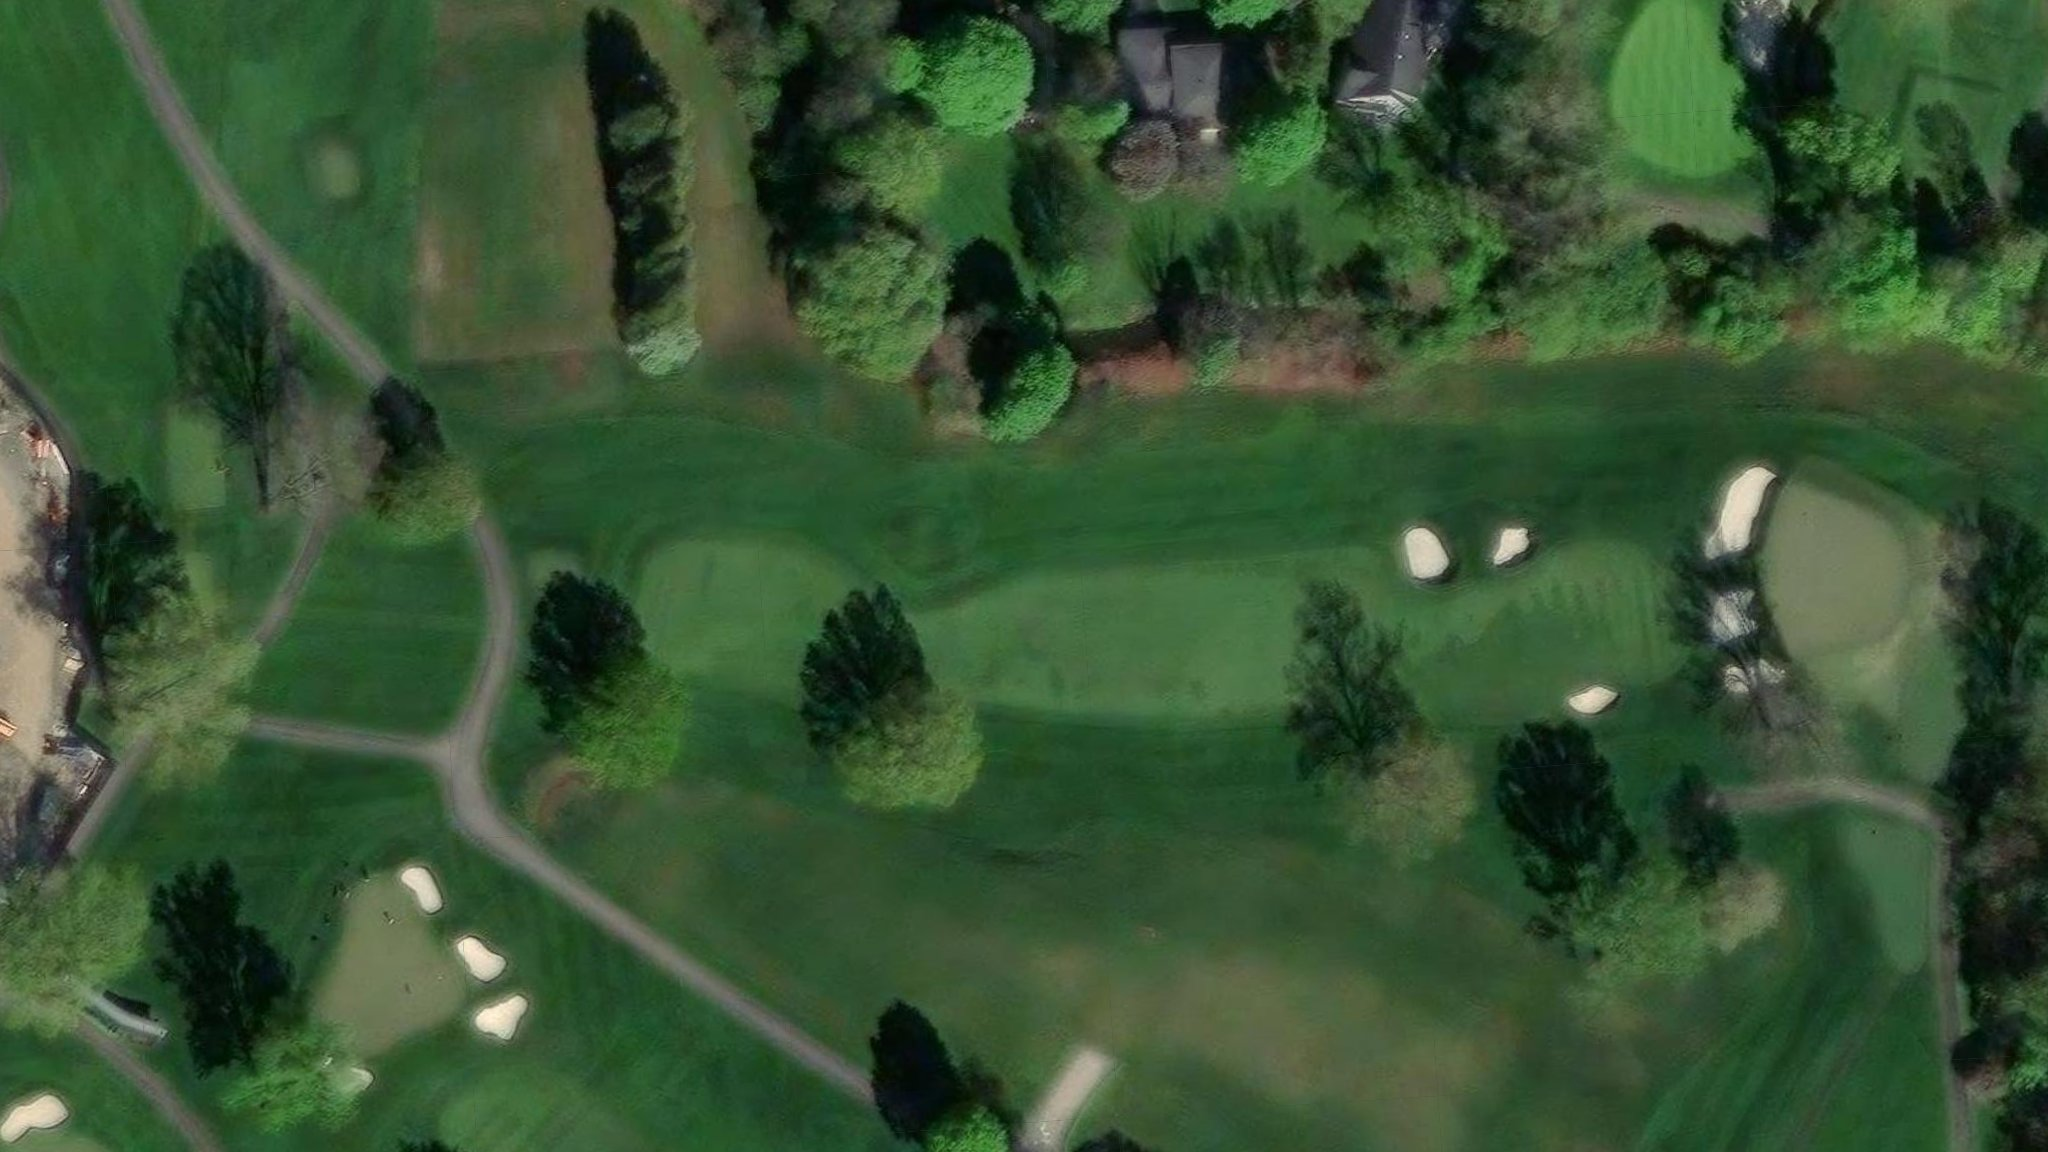
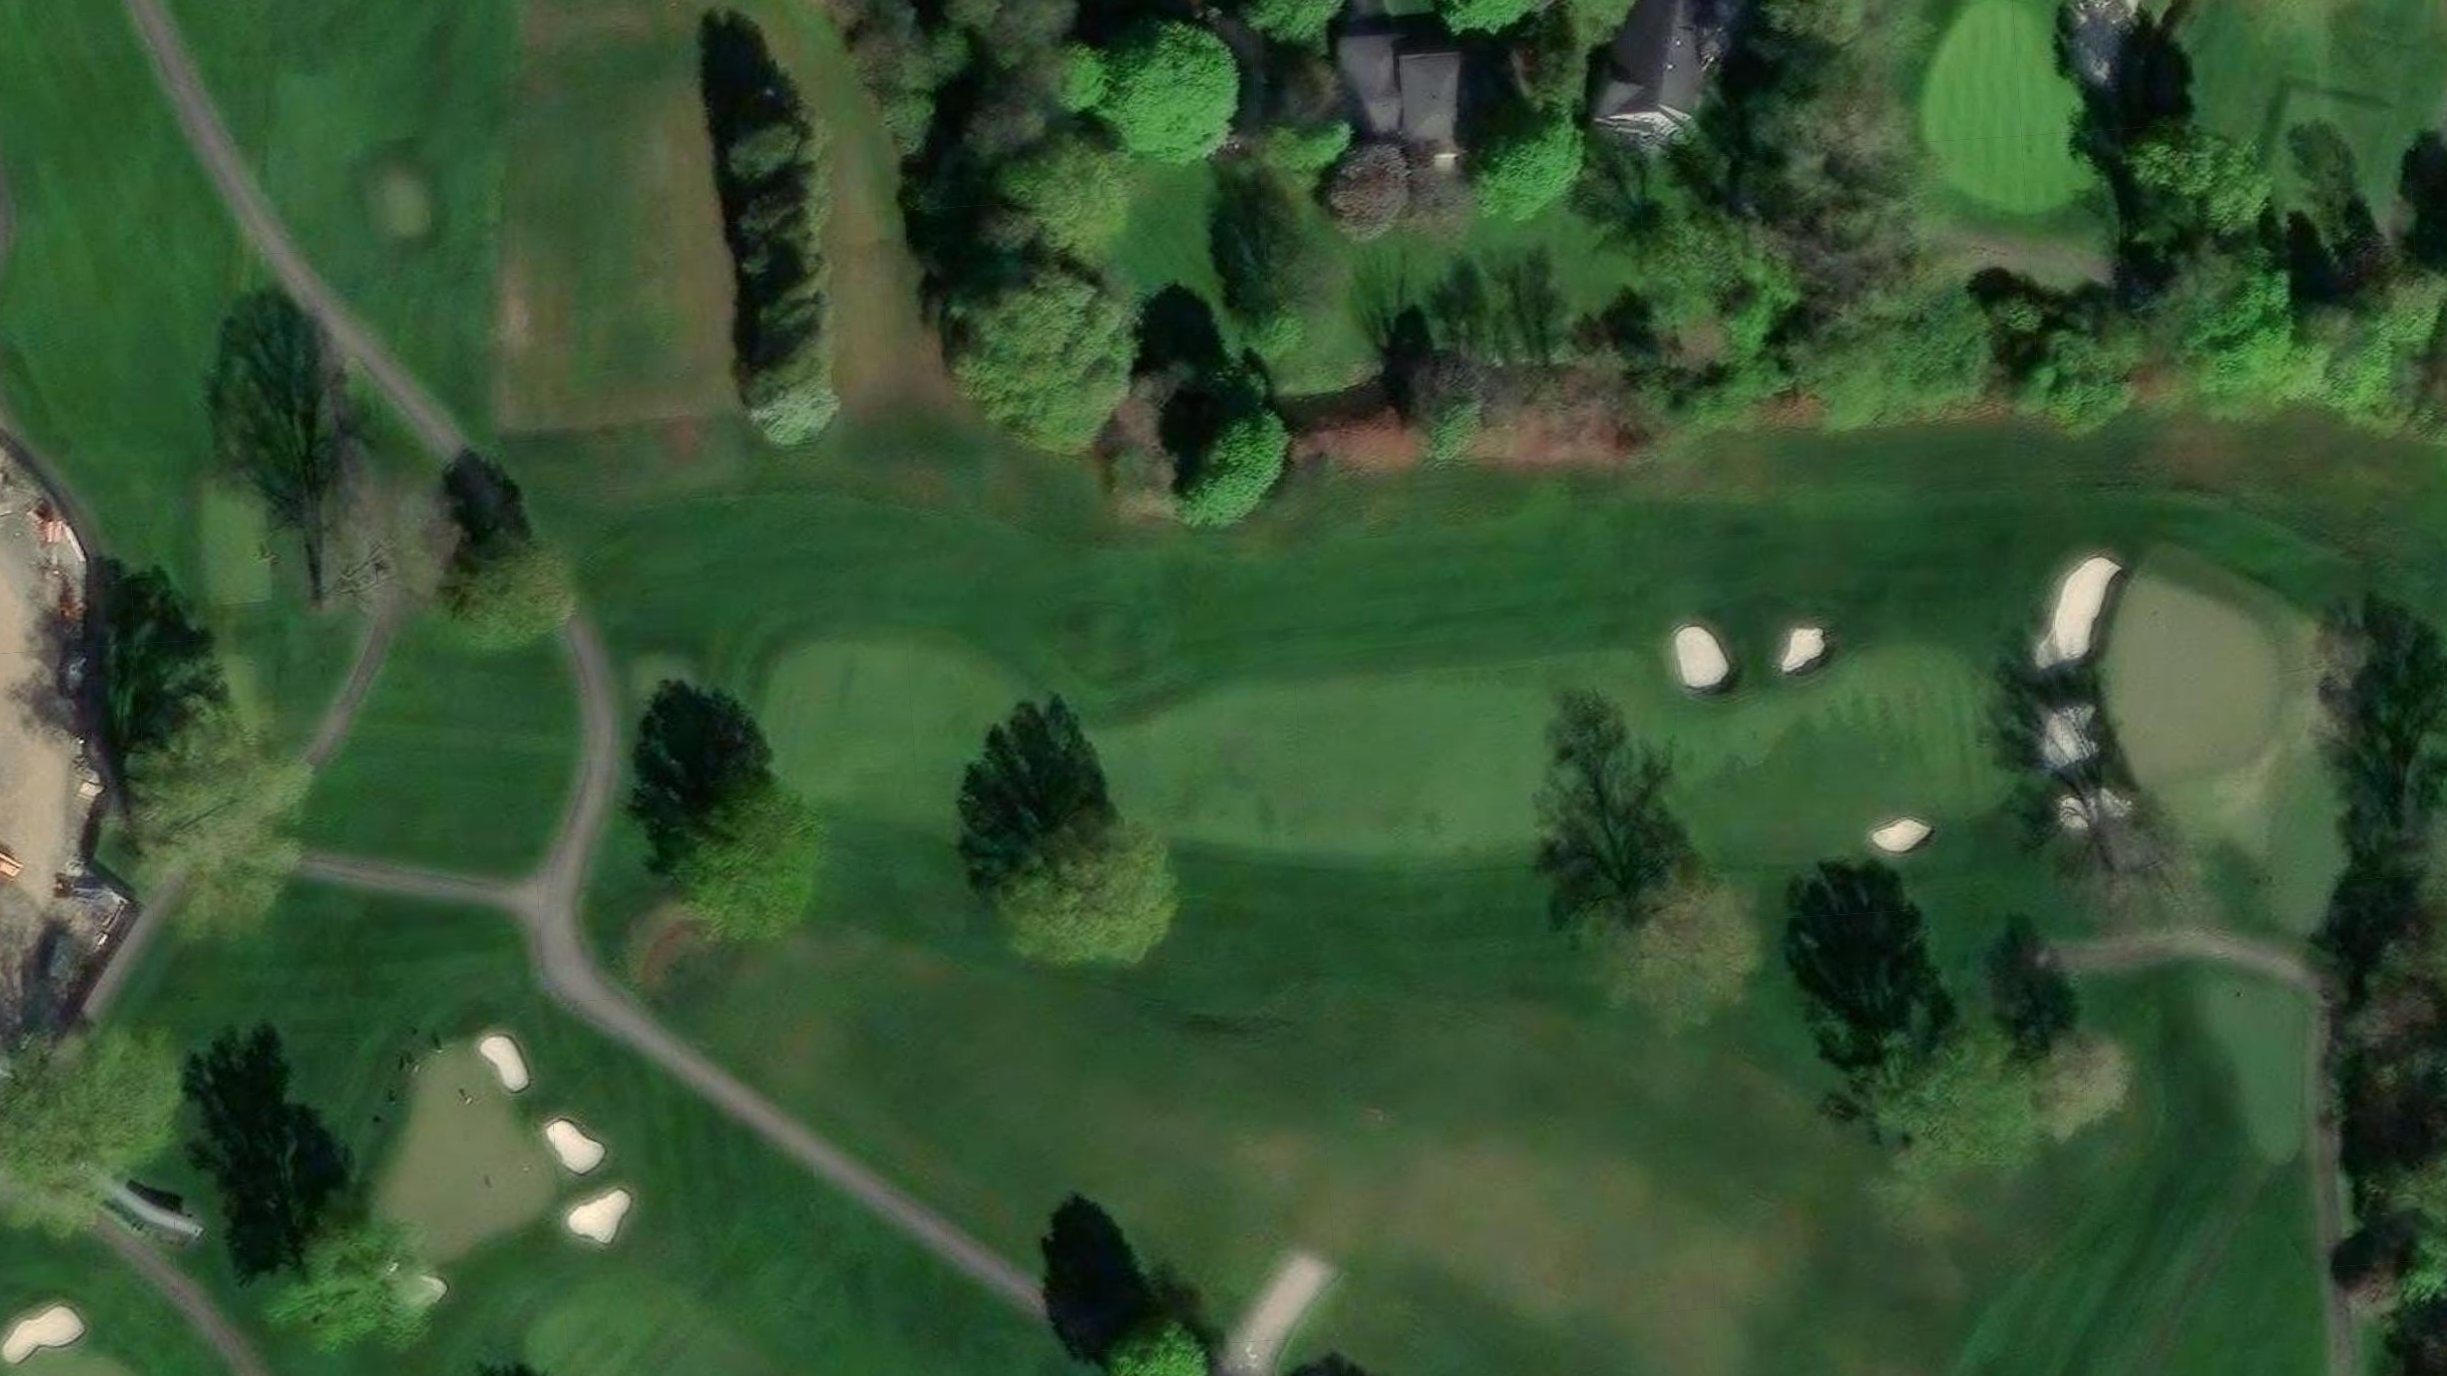
Marshal guide: 18 hole images, 32 stations (+1 image file)

diff --git a/js/holes-data.js b/js/holes-data.js
@@ -1,5 +1,5 @@
 // Hole images and marshal stations.
-// Saved from admin.html on 2026-08-25T18:52:46.658Z
+// Saved from admin.html on 2026-08-25T18:54:50.744Z
 //
 // savedAt is read back by the admin so it can tell whether this file or
 // a browser draft is the newer one, rather than making you guess.
@@ -775,24 +775,26 @@ const HOLES_DATA = {
               "lat": 43.10993826910449,
               "lng": -77.53303355948775
             }
-          ]
+          ],
+          "imagery": "esri",
+          "capturedZoom": 19
         },
         "image": {
           "src": "images/holes/east-14.jpg",
-          "width": 2048,
-          "height": 1152,
+          "width": 2447,
+          "height": 1376,
           "tee": {
-            "x": 0.0800000000022782,
+            "x": 0.0800000000022781,
             "y": 0.4999999999997262
           },
           "green": {
-            "x": 0.920000000002278,
+            "x": 0.9200000000022779,
             "y": 0.4999999999997262
           },
           "shots": [
             {
               "x": 0.7084071108622623,
-              "y": 0.5797016866689415
+              "y": 0.579727027866556
             }
           ]
         },
@@ -1541,5 +1543,5 @@ const HOLES_DATA = {
       }
     ]
   },
-  "savedAt": "2026-08-25T18:52:46.658Z"
+  "savedAt": "2026-08-25T18:54:50.744Z"
 };
